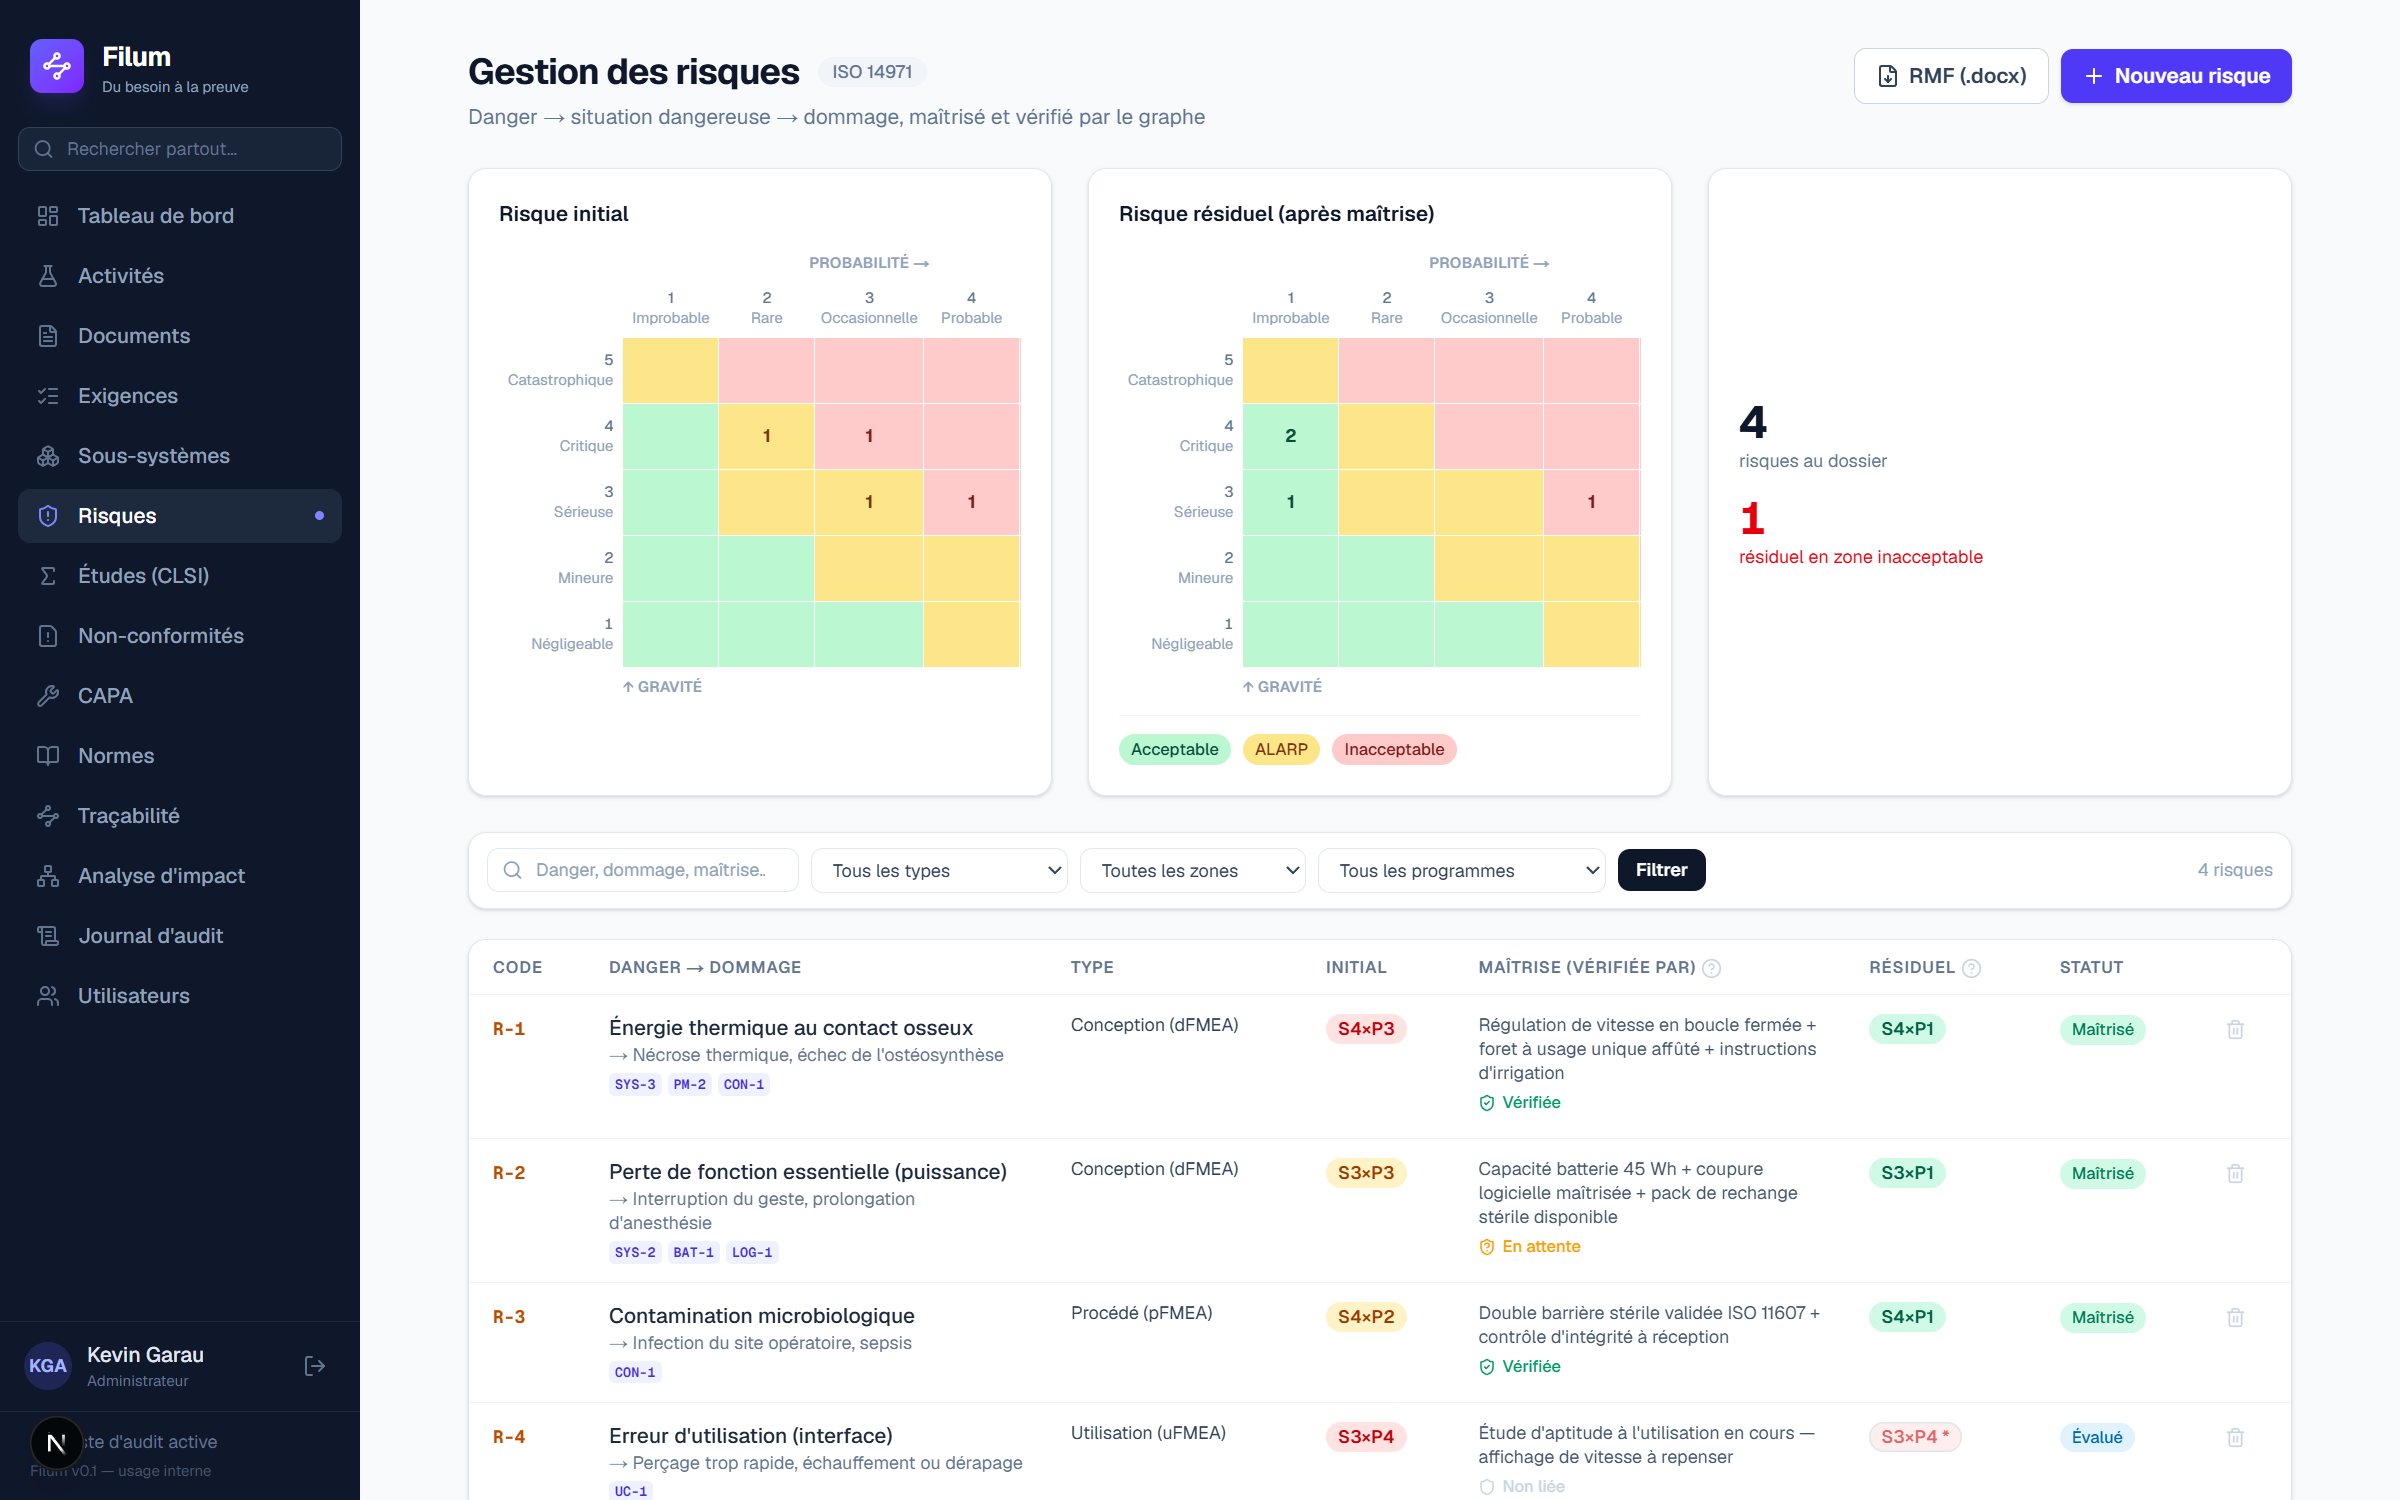
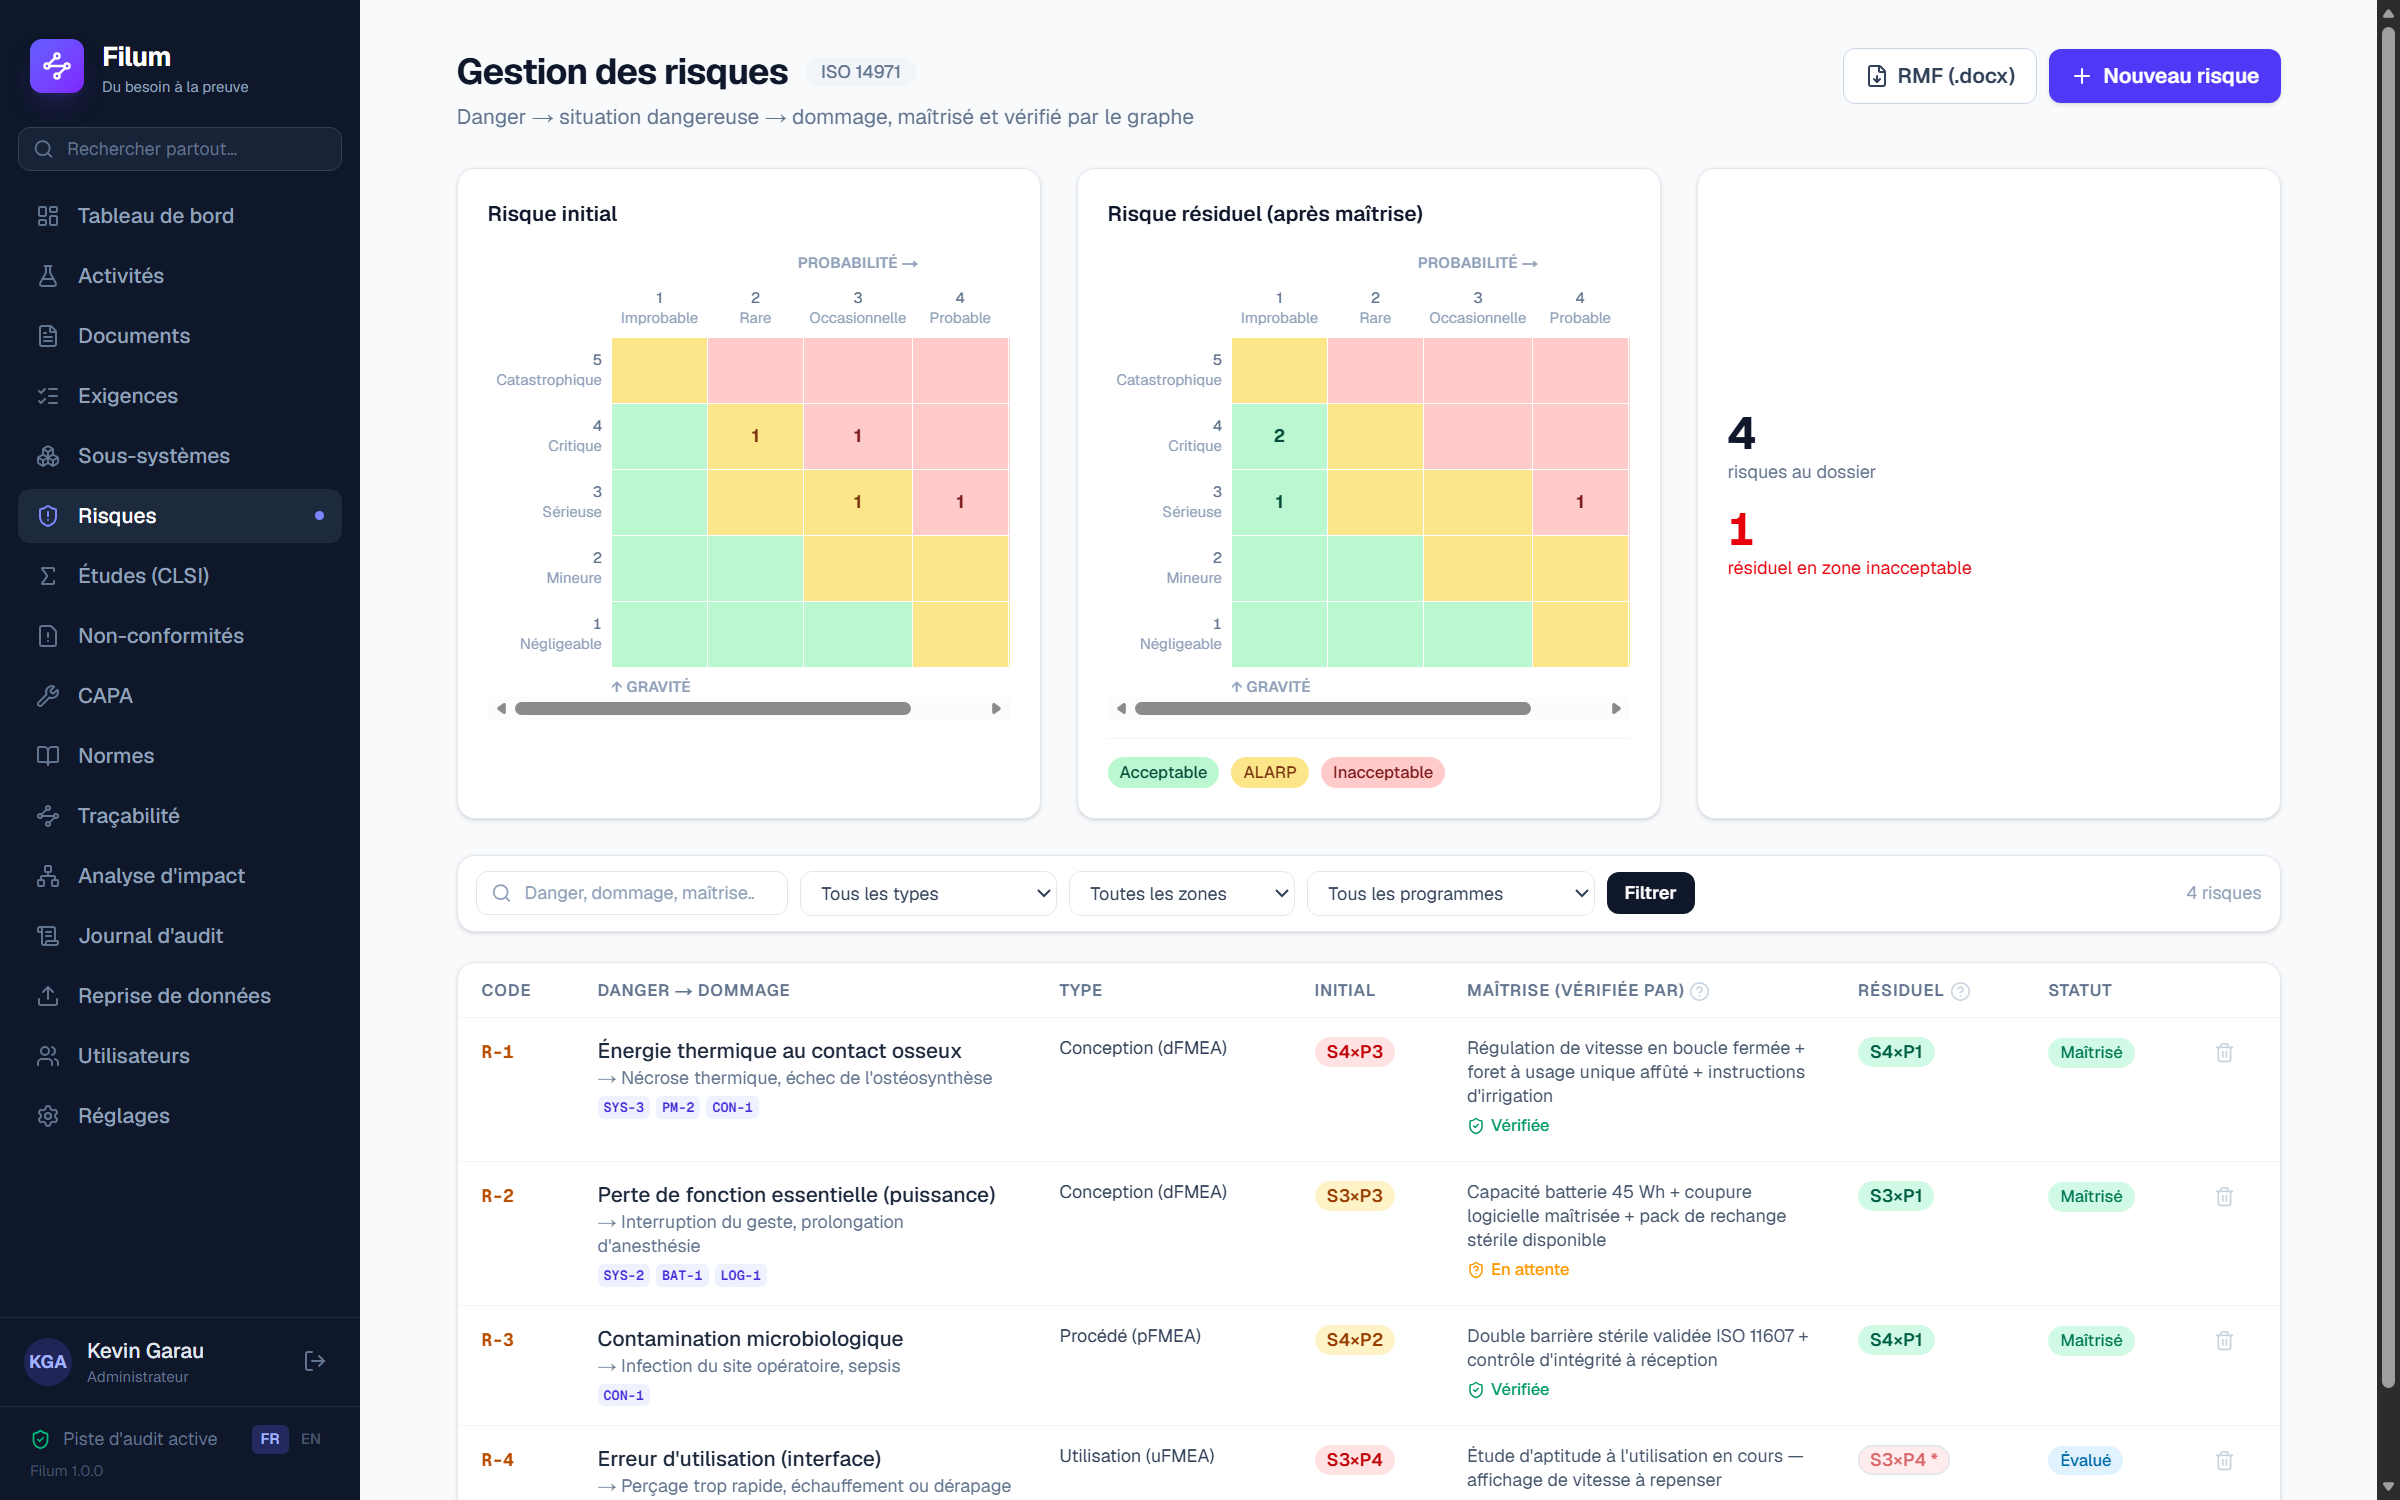
Captures régénérées et deux écrans ajoutés : reprise de données, signature
Toutes les captures viennent d'un build de PRODUCTION, plus du serveur de développement :
la barre latérale ne se déclare plus « v0.1 — usage interne » et l'indicateur de
développement de Next n'apparaît plus dans le coin.

Deux onglets s'ajoutent à la visite guidée, sur les deux sujets qui décident une vente et
que le site ne montrait pas :
- Reprise de données — la réponse à « je ne vais pas ressaisir 400 exigences » ;
- Signature électronique — le mot de passe redemandé à chaque signature, la manifestation
  complète, l'échec journalisé.

Corrigé au passage : le site attribuait toutes les captures au programme OD-300 alors que
les écrans de validation analytique viennent de NovaLyte, et présentait la non-conformité
comme créée automatiquement sur un essai en échec — c'est un bouton, pas un automatisme.
La bibliothèque de normes annonce désormais ce qu'elle contient réellement.

diff --git a/index.html b/index.html
@@ -159,7 +159,7 @@
   <div class="container">
     <p class="kicker reveal">Le socle</p>
     <h2 class="reveal d1">Visite guidée, sur données réelles.</h2>
-    <p class="section-sub reveal d2">Toutes les captures proviennent de l'application en fonctionnement, sur le programme OD-300 « Orthodrive » (perceuse chirurgicale) — aucun montage.</p>
+    <p class="section-sub reveal d2">Toutes les captures proviennent de l'application en fonctionnement — aucun montage. Deux programmes de démonstration : OD-300 « Orthodrive » (perceuse chirurgicale) et NovaLyte NL-100 (analyseur d'électrolytes, diagnostic in vitro), dont viennent les écrans de validation analytique.</p>
 
     <div class="tour reveal d3">
       <div class="tour-tabs" role="tablist" aria-label="Écrans du produit">
@@ -181,8 +181,14 @@
         <button class="ttab" data-shot="activite" data-caption="ACT-0101 : contrôles de complétude en continu, puis le Design History File compilé en un clic — manques signalés dedans.">
           <strong>DHF auto-compilé</strong><span>Le dossier toujours à jour</span>
         </button>
-        <button class="ttab" data-shot="normes" data-caption="IEC 61010, 61326, 62366… des références liables aux exigences. Métadonnées seulement — le texte reste dans vos copies achetées.">
+        <button class="ttab" data-shot="normes" data-caption="ISO 13485, MDR, ISO 14971, IEC 62304, 61010, 61326, 62366… des références liables aux exigences. Métadonnées seulement — le texte reste dans vos copies achetées.">
           <strong>Bibliothèque de normes</strong><span>IEC 61010, 61326, 62366…</span>
+        </button>
+        <button class="ttab" data-shot="import" data-caption="Votre dossier existant entre depuis un fichier CSV. Les liens se résolvent avec VOS codes. Aperçu à blanc avant toute écriture : ce qui serait créé, mis à jour, rejeté — et pourquoi, ligne par ligne.">
+          <strong>Reprise de données</strong><span>Sans ressaisir 400 exigences</span>
+        </button>
+        <button class="ttab" data-shot="signature" data-caption="Le mot de passe est redemandé à chaque signature (21 CFR 11.200(a)(1)), et la manifestation porte le nom imprimé figé, la signification et l'horodatage UTC (11.50). Un échec est journalisé et compte dans le verrouillage du compte.">
+          <strong>Signature électronique</strong><span>Deux composants, à chaque fois</span>
         </button>
         <button class="ttab" data-shot="audit" data-caption="Chaque écriture, signature, génération et connexion — attribuée, horodatée, immuable (ALCOA+), avec annulation ciblée pour corriger sans effacer.">
           <strong>Journal d'audit</strong><span>Qui, quoi, quand, pourquoi</span>
@@ -266,7 +272,7 @@
           <li>Efficacité prouvée par le graphe : critère a priori + essai re-vérifié Pass</li>
           <li>Rétroaction automatique à la clôture : spéc NOK reverdie, NC fermées, risque ré-évalué</li>
         </ul>
-        <p class="module-case">Sur OD-300 : l'essai VER-3 en échec a créé NC-1, escaladée en CAPA-1 (cause racine : élastomère de joint inadapté) — clôturée EFFICACE, SPEC-5 repassée NOK → OK automatiquement.</p>
+        <p class="module-case">Sur OD-300 : l'essai VER-3 en échec a donné lieu à NC-1, escaladée en CAPA-1 (cause racine : élastomère de joint inadapté) — clôturée EFFICACE, SPEC-5 repassée NOK → OK automatiquement.</p>
       </div>
     </div>
   </div>
